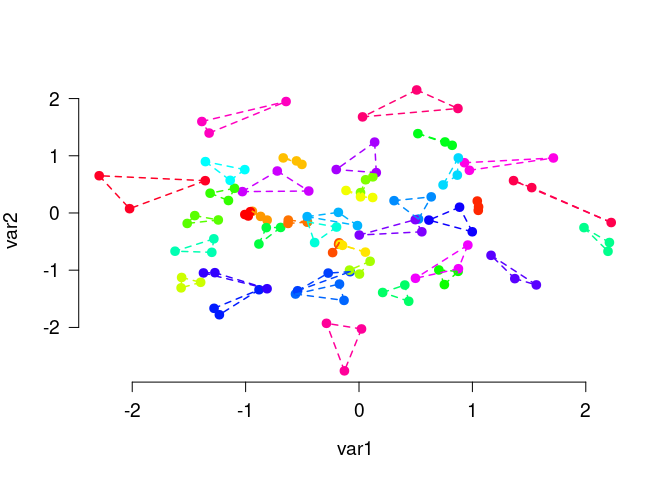
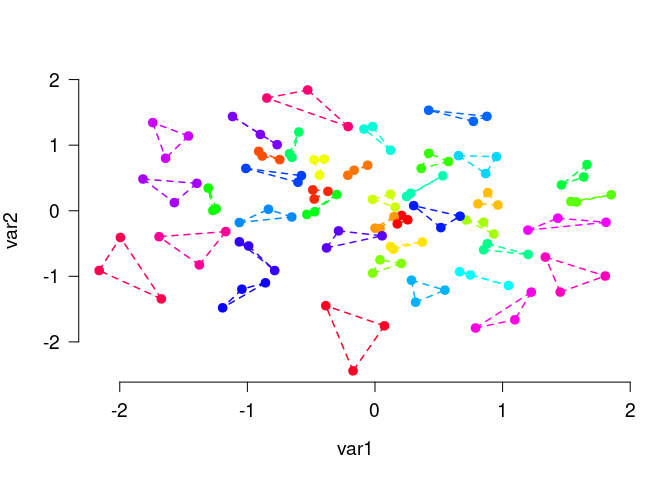
more on README

diff --git a/README.md b/README.md
@@ -80,10 +80,10 @@ create three similar sets of plants using the classical iris data set:
     # The output is a vector that assigns a group (i.e, a number
     # between 1 and K) to each input element:
     anticlusters
-    #>   [1] 1 1 2 3 2 3 2 1 2 1 2 1 2 3 1 2 1 1 2 3 3 1 2 1 3 1 3 2 1 3 3 1 3 2 3 2 2
-    #>  [38] 2 3 1 1 1 3 3 1 2 3 1 2 3 2 3 3 2 2 2 3 3 3 2 3 3 2 1 2 3 1 1 3 2 2 1 1 3
-    #>  [75] 1 3 3 2 1 3 1 2 1 2 1 3 1 2 3 3 1 3 1 2 2 2 2 3 1 3 1 3 2 2 1 3 3 3 2 3 3
-    #> [112] 2 3 1 2 2 1 1 1 1 3 1 1 3 1 1 2 2 1 2 3 2 2 1 2 2 3 1 3 3 2 1 1 1 1 3 3 2
+    #>   [1] 1 3 2 2 1 2 3 2 2 3 3 3 3 2 1 2 1 1 1 3 2 1 1 1 3 2 1 1 1 3 1 3 2 2 3 1 3
+    #>  [38] 3 2 3 3 2 2 2 1 3 1 2 2 3 2 3 2 1 3 1 3 1 2 2 2 1 3 1 2 3 2 3 2 1 3 1 1 2
+    #>  [75] 2 1 1 3 2 3 3 1 1 3 2 3 2 1 1 3 1 1 2 2 3 2 3 3 1 2 1 1 2 2 2 2 3 2 1 1 3
+    #> [112] 3 3 3 3 1 3 3 1 3 1 2 2 3 3 2 2 1 2 1 3 3 3 1 1 2 1 1 1 1 3 2 1 3 2 2 1 3
     #> [149] 2 2
 
     # Each group has the same number of items:
@@ -100,7 +100,7 @@ create three similar sets of plants using the classical iris data set:
     #> ------------------------------------------------------------ 
     #> anticlusters: 2
     #> Sepal.Length  Sepal.Width Petal.Length  Petal.Width 
-    #>         5.84         3.06         3.76         1.20 
+    #>         5.85         3.06         3.76         1.20 
     #> ------------------------------------------------------------ 
     #> anticlusters: 3
     #> Sepal.Length  Sepal.Width Petal.Length  Petal.Width 
@@ -113,11 +113,13 @@ pretty much the same across three groups. The function
 `anticlustering()` takes as input a data table describing the elements
 that should be assigned to sets. In the data table, each row represents
 an element, for example a person, word or a photo. Each column is a
-numeric variable describing one of the elements’ features. The table may
-be an R `matrix` or `data.frame`; a single feature can also be passed as
-a `vector`. The number of groups is specified through the argument `K`.
-(Alternatively, it is also possible to pass a dissimilarity matrix
-describing the pairwise distance between elements.)
+numeric variable describing one of the elements’ features.
+(Alternatively, it is also possible to pass a distance matrix describing
+the pairwise dissimilarity between elements.) The number of groups is
+specified through the argument `K`. The argument `objective` specifies
+how between-group similarity is computed; the argument `method`
+specifies the algorithm by which this measure is optimized. See the
+documentation `?anticlustering` for more details.
 
 To quantify cluster similarity, `anticlust` employs one of several
 measures that have been developed in the context of cluster analysis:
